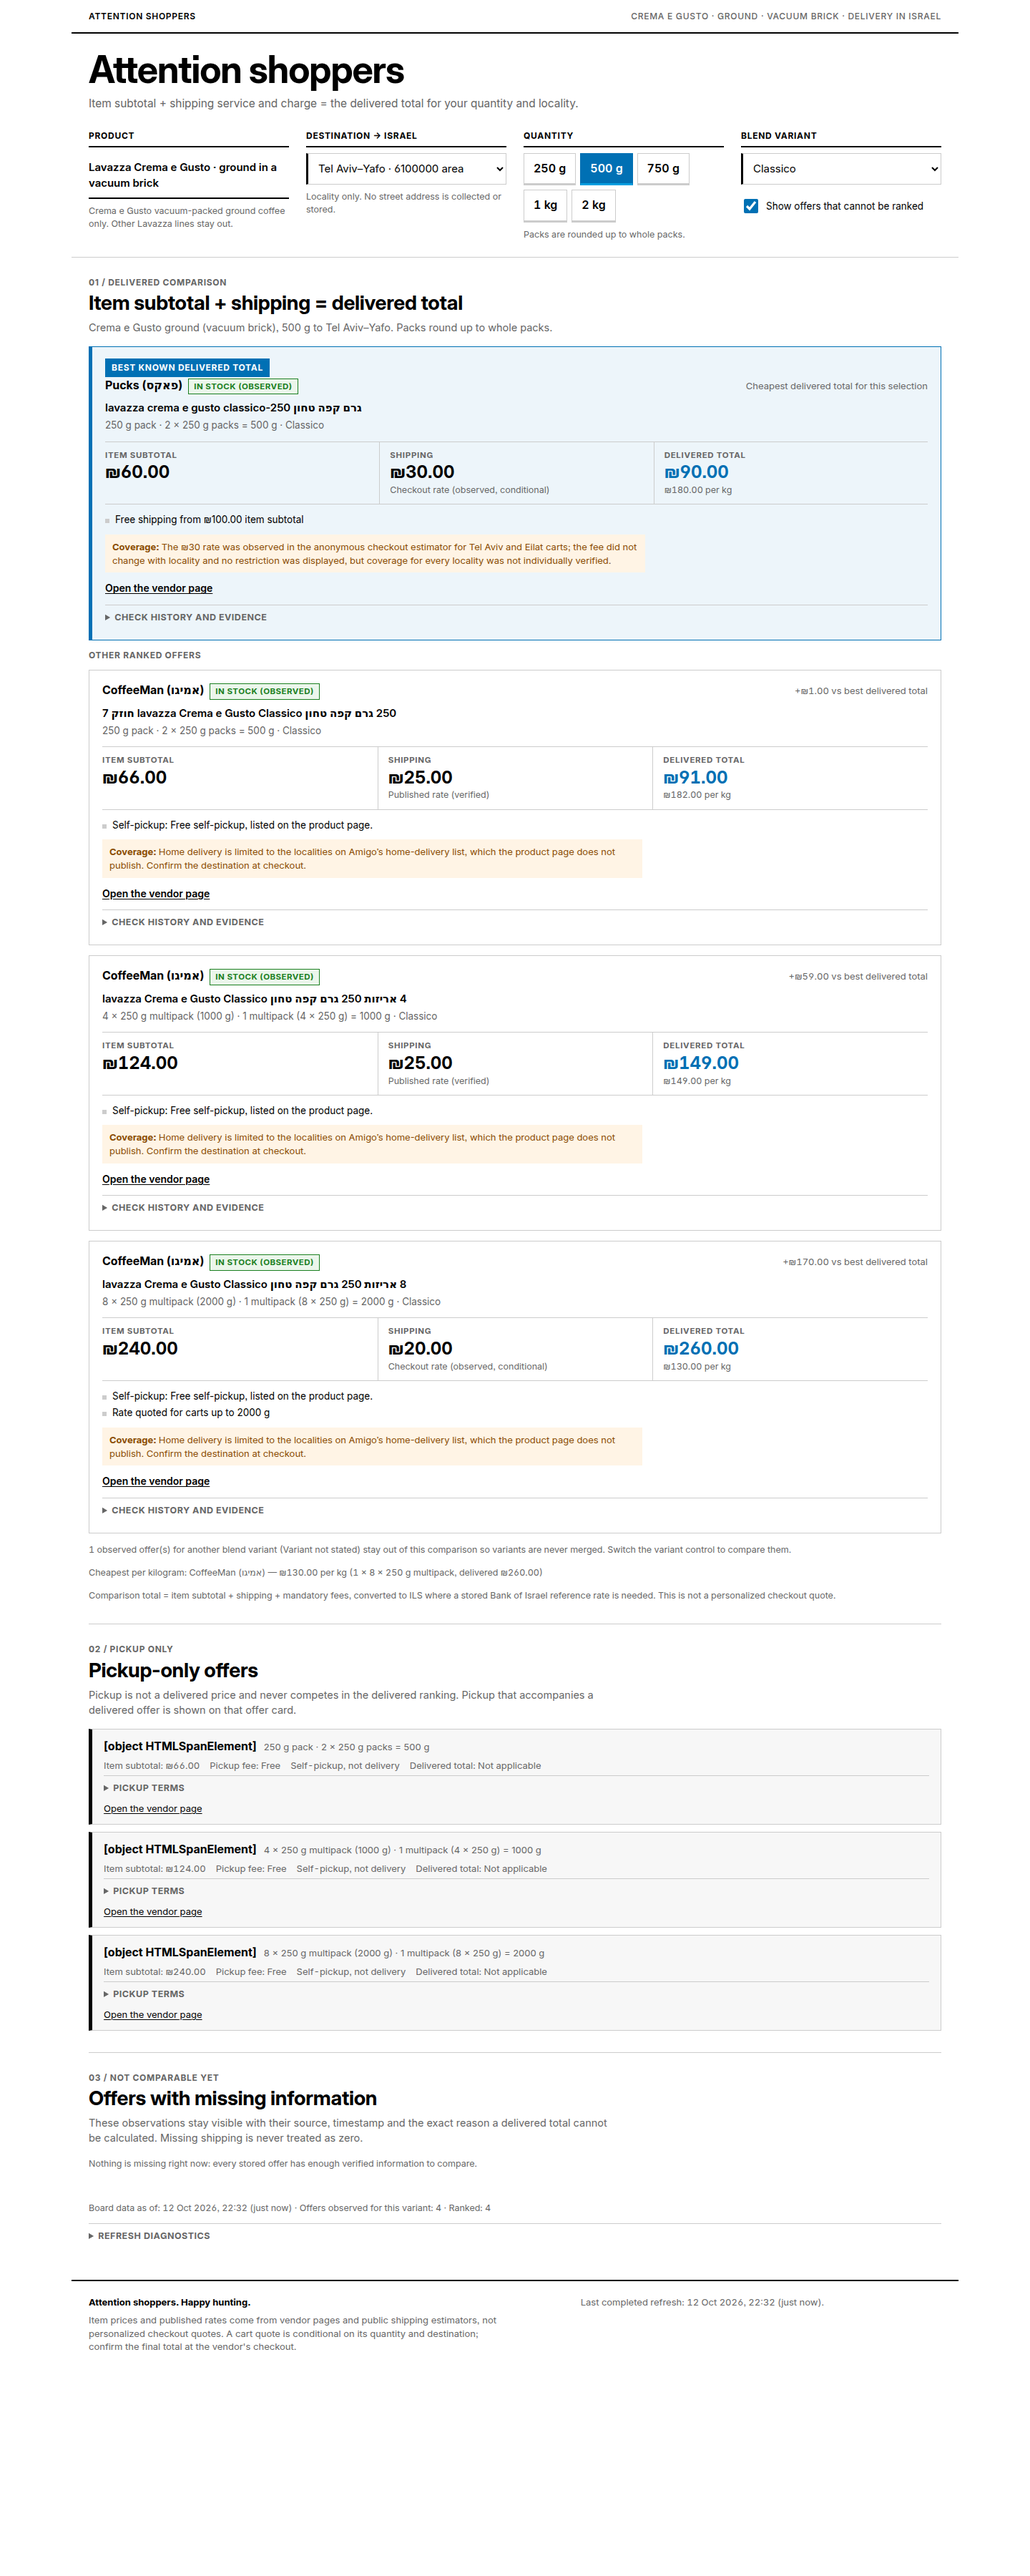
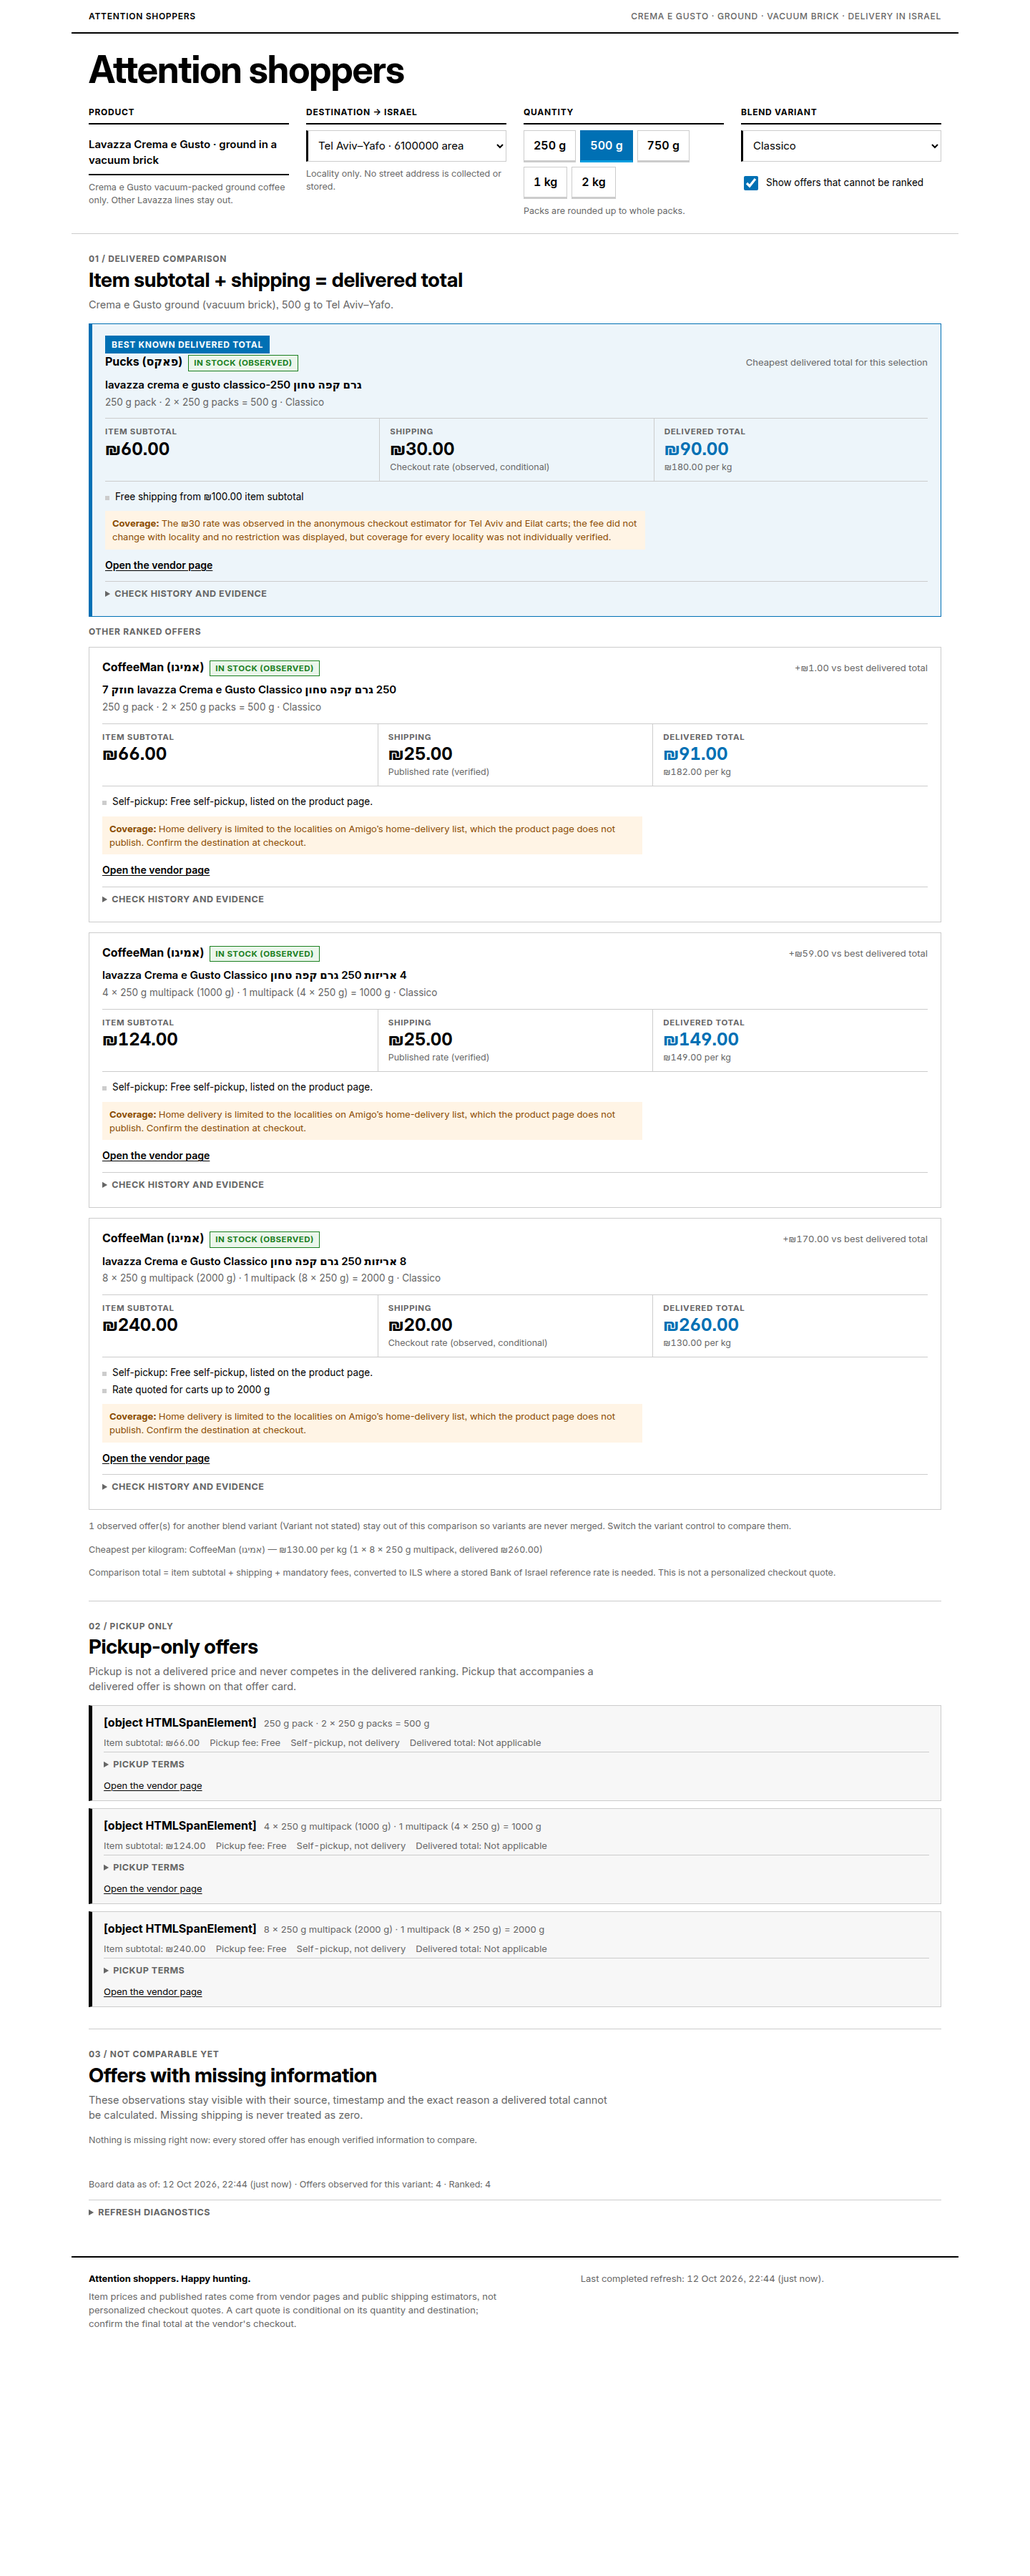
Tighten the mobile first screen and record the reviewed layout
- Remove the hero sub-copy, drop the duplicated 'packs round up' sentence
  from the ranked-section intro and keep the five quantity buttons on one
  44 px row at 390 px.
- Rendered fixture page 5627 -> 4996 px content; mobile best card top
  952 -> 829 px inside an 844 px first screen; desktop 484 -> 452 px.
- Re-run 81/81 offline and 77/77 live browser checks and 95/95 tests.
- Update the visual-review evidence and DESIGN/STATUS numbers.

diff --git a/docs/STATUS.md b/docs/STATUS.md
@@ -1003,13 +1003,17 @@ that is merely out of scope for the selected quantity keeps its own exact reason
 quote test, the parser/QA-server assertions, the browser QA Pucks expectation and the worker API
 assertion were updated; `docs/DESIGN.md` and `docs/SOURCES.md` document the distinction.
 
-**Pickup rows compacted.** The three pickup-only offers were three near-identical three-cell cards
-(~400-420 px each at 390 px) with the same note repeated per card. They are now one compact row each
-(vendor, pack/quantity, item subtotal, pickup fee, written "Delivered total: Not applicable") with the
-repeated terms behind a `Pickup terms` disclosure. Rendered mobile height for the five-offer fixture
-board dropped from **5627 px to 5047 px** and the pickup rows from **401/420/421 px to 199/218/218 px**,
-with the section still present, still out of the delivered ranking and still naming the fee and the
-missing delivered total.
+**Pickup rows compacted and the mobile first screen tightened.** The three pickup-only offers were
+three near-identical three-cell cards (~400-420 px each at 390 px) with the same note repeated per card.
+They are now one compact row each (vendor, pack/quantity, item subtotal, pickup fee, written "Delivered
+total: Not applicable") with the repeated terms behind a `Pickup terms` disclosure. In the same pass the
+removed hero sub-copy, the shortened ranked-section intro and the one-row quantity control brought the
+best offer card onto the mobile first screen: rendered fixture page **5627 → 4996 px** content
+(scrollHeight 5237 → 5133), pickup rows **401/420/421 → 199/218/218 px**, mobile best card top
+**952 → 829 px** inside a 844 px screen, desktop best card top **484 → 452 px**, hero **132 → 59 px**
+mobile / **~132 → 97 px** desktop, quantity control **94 → 44 px** with the five buttons on one row and
+the 44 px tap height preserved. The pickup section is still present, still out of the delivered ranking
+and still names the fee and the missing delivered total.
 
 **Visual review with a new dependency-free inspector.** The coding agent's file-read tool still rejects
 PNG input, so `scripts/inspect-screenshot.mjs` was added: it decodes a PNG with `node:zlib`, prints a
@@ -1017,9 +1021,10 @@ coarse luminance character map and reports pixel counts/bounding boxes for the C
 tokens. Used on before/after full-height screenshots (1440 px and 390 px) it confirmed: soft-blue confined
 to the best-offer panel, blue to rules/selected control/best tag/delivered-total value, green to in-stock
 labels, amber to uncertainty, no red (no unavailable offer in the fixture board), no horizontal overflow,
-the three decision cells in one row ending at x=1290 inside 1440 px, and the compacted pickup section.
-Small text is not legible in the character map, so every amount/label claim remains backed by rendered
-DOM text and the API; the QA harness separately asserts WCAG AA rendered contrast. Evidence:
+the three decision cells in one row ending at x=1290 inside 1440 px, the compacted pickup section and the
+best card inside both first screens. Small text is not legible in the character map, so every
+amount/label claim remains backed by rendered DOM text and the API; the QA harness separately asserts
+WCAG AA rendered contrast. Evidence:
 `docs/evidence/visual-review/2026-10-12-revised-layout-review.json` plus before/after screenshots.
 
 **Verification runs (2026-10-12 UTC):**

diff --git a/docs/DESIGN.md b/docs/DESIGN.md
@@ -42,7 +42,10 @@ conditional)` label so its quantity/destination condition stays visible.
 - Recommended font features `ss07`, `ss08`, `cv03`, `cv04`, `cv10` are enabled globally; prices and
   per-kilogram values use tabular numerals (`.num`).
 - Headings are left aligned and compact. The hero reads **"Attention shoppers"** with no trailing
-  period and does not push the offers below the first screen (best card top ≈507 px at 1440×857).
+  period, keeps no sub-copy, and does not push the offers below the first screen: the best card top is
+  ≈452 px at 1440×857 and ≈829 px inside a 390×844 first screen (measured 2026-10-12, iteration 3-70).
+  The ranked-section intro carries the selected product/pack/quantity/destination once; the quantity
+  buttons stay on one 44 px row at 390 px.
 - No emoji in the typography. Wayfinding uses plain text and monochrome glyphs; Hebrew vendor/product
   text is wrapped in isolated `dir="auto" lang="he"` spans.
 
